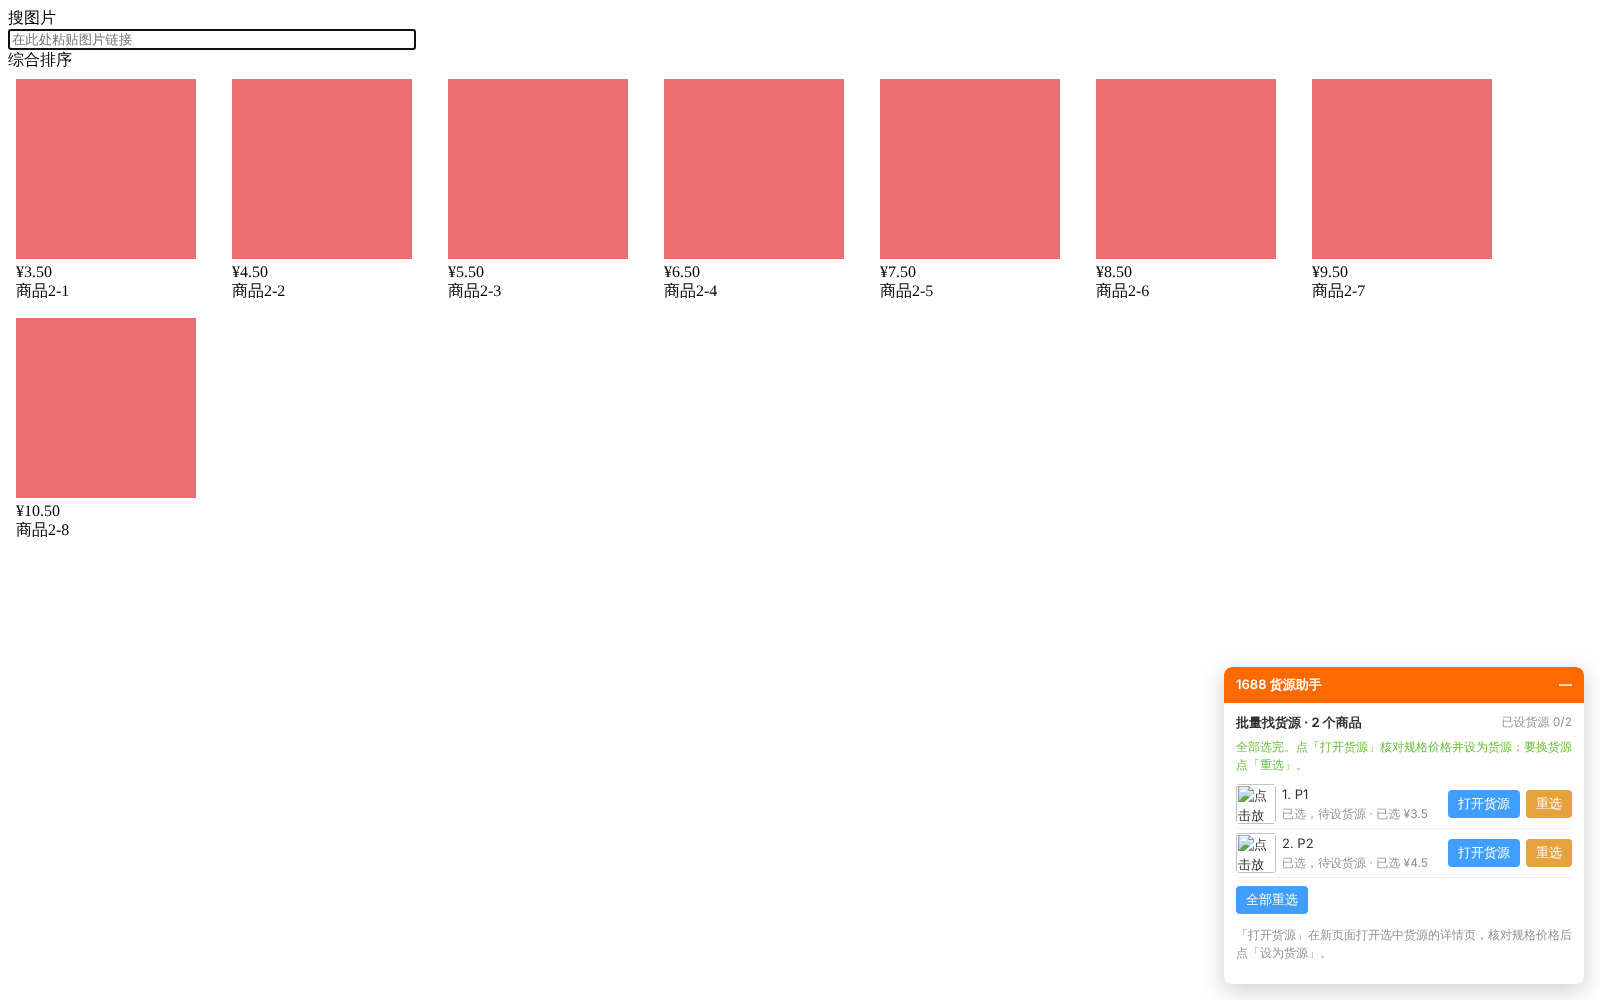
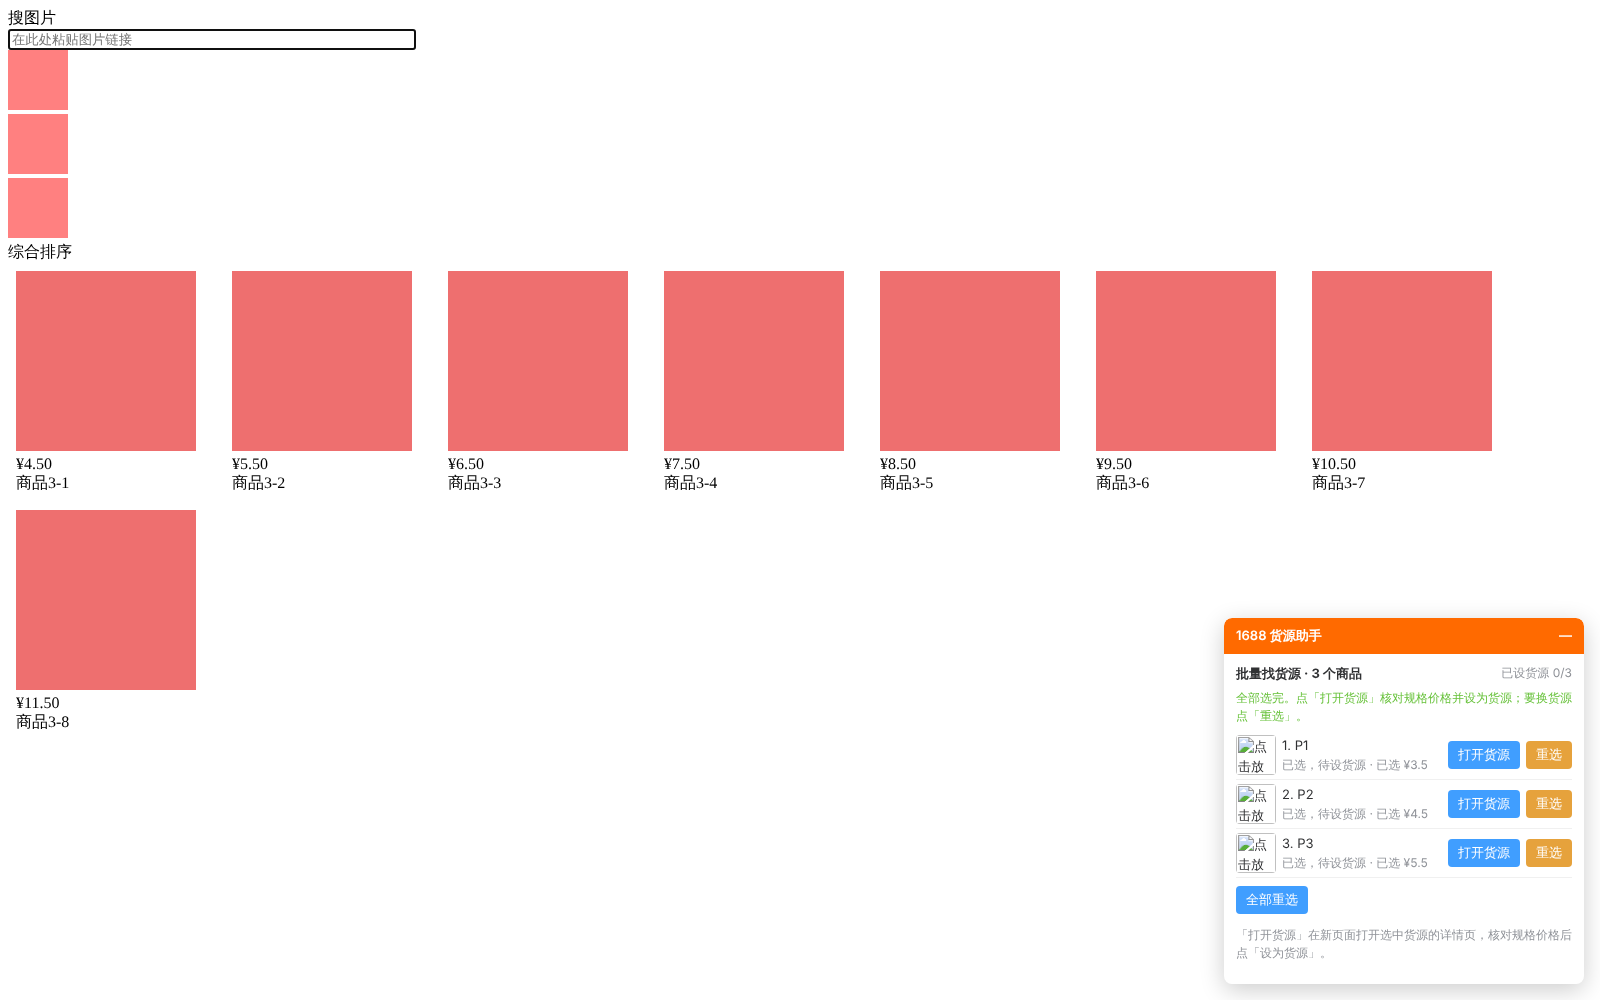
货源助手: 找货源 isolation on the 一件代发 page too (#103)
* 一键申请类目: stop at WeChat's daily quota (45009), lowest deposit first; fix opened-category detection

- apply stops at the first 45009 and records nothing, so the remaining
  categories stay eligible for the next day; old 45009 records are ignored
- opened categories: try get_category_relation_list (channels / shop) and
  list/get, merge them, and collect every *cat_id / category_id at any depth
  (list/get returns first_cat_id..third_cat_id, which was read as 0)
- new /api/categories/opened_raw and a button to see WeChat's raw response

Claude-Session: https://claude.ai/code/session_01JJSGHJCopX6WXWa6CJQpPQ

* Auto-Favorite: click sold products in desktop WeChat instead of scrcpy

The 点商品 step now drives the PC WeChat app: 客服消息 list -> shop chat ->
its avatar -> card 小店 -> the 小店 window (分类 / 全部 / 销量 as before),
closing that window after each shop. New 检测电脑微信 probe. Also fixes the
warning popup that could never show (exception variable cleared).

Claude-Session: https://claude.ai/code/session_01JJSGHJCopX6WXWa6CJQpPQ

* Auto-Favorite: recognise the desktop 「< 客服消息」 header when OCR reads the arrow into it

The header was matched exactly, but OCR returns く客服消息 / <客服消息, so the
products mode stopped at once. Any short text containing 客服消息 (and 搜索)
now counts; the error now shows the window used and what was read top left.

Claude-Session: https://claude.ai/code/session_01JJSGHJCopX6WXWa6CJQpPQ

* Auto-Favorite: read desktop WeChat even when another window covers it
[…]

diff --git a/tools/1688-extension/content.js b/tools/1688-extension/content.js
@@ -947,10 +947,30 @@
     return true
   }
 
+  /* 找货源 isolation: keep the claim on every product of the batch not finished yet (a claim lasts 2 hours);
+   * one another account took meanwhile is left out */
+  async function renewClaims() {
+    if (!pageBatch) return
+    const open = pageBatch.items.filter((it) => !['done', 'nomatch'].includes(it.status))
+    if (!open.length) return
+    try {
+      const r = await call('POST', '/api/ext/claim', { items: open.map((it) => ({ kind: it.kind, id: it.id })) })
+      for (const t of r.taken || []) {
+        const it = pageBatch.items.find((x) => `${x.kind}:${x.id}` === t.key)
+        if (it && it.status !== 'selecting') {
+          Object.assign(it, { status: 'error', note: `已被账号「${t.by}」在找货源，已跳过` })
+          await sendStatus(it.key, { status: it.status, note: it.note })
+        }
+      }
+    } catch (e) { /* offline: try again later */ }
+  }
+  setInterval(() => { if (pageBatch) renewClaims() }, 10 * 60 * 1000)
+
   async function runBatchPage2(again) {
     const items = pageBatch.items
+    await renewClaims()
     if (isChannel()) {  // 一件代发 搜索页: 搜图片 with all the pictures at once, else one by one
-      const todo = items.map((it, i) => i).filter((i) => typeof again === 'number' ? i === again
+      const todo = items.map((it, i) => i).filter((i) => !(items[i].status === 'error' && /已被账号/.test(items[i].note || ''))).filter((i) => typeof again === 'number' ? i === again
         : !(items[i].status === 'done' || (again === 'failed' && !isFailed(items[i])) || (again === false && items[i].status !== 'waiting')))
       if (todo.length >= 2 && await runChannelMany(todo)) {
         if (stopping) return
@@ -960,6 +980,7 @@
       for (let i = 0; i < items.length; i++) {
         const it = items[i]
         if (stopping) return
+        if (it.status === 'error' && /已被账号/.test(it.note || '')) continue
         if (typeof again === 'number' ? i !== again : (it.status === 'done' || (again === 'failed' && !isFailed(it)) || (again === false && it.status !== 'waiting'))) continue
         await runOneChannel(i)
         await sleep(600)

diff --git a/backend/app/routers/ext.py b/backend/app/routers/ext.py
@@ -324,20 +324,28 @@ def claim(body: ClaimIn, user: User = Depends(current_user), db: Session = Depen
             p = _get(db, user, it.kind, it.id)
         except HTTPException:
             continue
-        g = _groups(db, it.kind, [p])[p.id]
-        c = db.scalar(select(ExtClaim).where(ExtClaim.group_key == g))
-        fresh = c and c.claimed_at > datetime.now() - timedelta(hours=CLAIM_HOURS)
-        if fresh and c.user_id != user.id:
-            taken.append({"key": f"{it.kind}:{it.id}", "by": c.username})
-            continue
-        if c is None:
-            c = ExtClaim(group_key=g)
-            db.add(c)
-        c.user_id, c.tenant_id, c.username, c.claimed_at = user.id, user.tenant_id, user.username, datetime.now()
-        db.flush()
-        claimed.append(f"{it.kind}:{it.id}")
+        by = _claim_one(db, user, it.kind, p)
+        if by:
+            taken.append({"key": f"{it.kind}:{it.id}", "by": by})
+        else:
+            claimed.append(f"{it.kind}:{it.id}")
     db.commit()
     return {"claimed": claimed, "taken": taken}
+
+
+def _claim_one(db, user, kind: str, p) -> str | None:
+    """Claim (or renew) one product for this account; the other account's name when it is on it."""
+    g = _groups(db, kind, [p])[p.id]
+    c = db.scalar(select(ExtClaim).where(ExtClaim.group_key == g))
+    fresh = c and c.claimed_at > datetime.now() - timedelta(hours=CLAIM_HOURS)
+    if fresh and c.user_id != user.id:
+        return c.username
+    if c is None:
+        c = ExtClaim(group_key=g)
+        db.add(c)
+    c.user_id, c.tenant_id, c.username, c.claimed_at = user.id, user.tenant_id, user.username, datetime.now()
+    db.flush()
+    return None
 
 
 @router.post("/release")
@@ -367,6 +375,11 @@ def by_wx(product_id: str, user: User = Depends(current_user), db: Session = Dep
                                              StoreProduct.wx_product_id == pid).order_by(StoreProduct.id.desc()))
     if not p:
         raise HTTPException(404, f"没有找到商品 ID {pid}（请先在商品管理里同步这个店铺的商品）")
+    by = _claim_one(db, user, "store", p)  # 找货源 isolation: not a product another account is on
+    if by:
+        db.rollback()
+        raise HTTPException(409, f"这个商品正在被账号「{by}」找货源（{CLAIM_HOURS} 小时内有效），请换别的商品")
+    db.commit()
     names = {s.id: s.name for s in access.stores(db, user.tenant_id).values()}
     return {**_store_item(db, p, names), "wx_product_id": p.wx_product_id, "source": _current_source(db, user, "store", p)}
 

diff --git a/backend/tests/test_ext.py b/backend/tests/test_ext.py
@@ -116,6 +116,10 @@ def test_claims_keep_two_accounts_off_the_same_products(client):
         r = other.post("/api/ext/claim", json={"items": [{"kind": "store", "id": c}]}).json()
         assert r["claimed"] == [] and r["taken"][0]["by"] == "owner1"  # c is b's job
         assert q(client) in ([a, b], [a, c])  # the owner of the claims still sees them
+        # 换商品 by its 微信商品 ID: not a product another account is on (w3 = c, b's job)
+        r = other.get("/api/ext/by-wx", params={"product_id": "w3"})
+        assert r.status_code == 409 and "owner1" in r.json()["detail"]
+        assert client.get("/api/ext/by-wx", params={"product_id": "w3"}).status_code == 200  # the owner may
         client.post("/api/ext/release", json={"items": [{"kind": "store", "id": b}]})
         assert q(other) in ([b], [c])
         client.post("/api/ext/skip", json={"kind": "store", "id": a})  # skipping ends the claim (and the job)

diff --git a/tools/1688-extension/README.md b/tools/1688-extension/README.md
@@ -22,7 +22,8 @@
 4. **跳过 = 无货源**：跳过的商品在网站上标记为「无货源」，以后不再出现在待找货源的列表里（之后设了货源会自动取消标记）。
 6. **多账号不重复**：开始批量时，这些商品会记在你名下（2 小时内有效，选的过程中会自动续期）。其他账号（共享店铺、子账号）
    的待找货源列表里看不到它们，也不会分到同一批里。同一个货源商品上架到多个店铺时只算一个，只出现一次。
-   设了货源、跳过、或清除批量后自动释放。
+   设了货源、跳过、或清除批量后自动释放。一件代发搜索页和找品页都一样；批量页面打开期间，插件每 10 分钟给这一批还没完成的商品续期，
+   用「换商品」输入商品 ID 时，正在被其他账号找货源的商品会提示，不能换。
 5. **自动下一批**：一批 10 个商品都「已设货源」或「跳过」后，5 秒后自动取下一批 10 个还没有货源的商品（和开始时同样的店铺 / 云库范围），重新打开找品页继续。货源价（已含运费）写入商品云库和所有店铺里的同一商品，
    公式改价和订单采购成本都按这个货源价计算。插件弹窗里能看到每个商品的进度。
 
